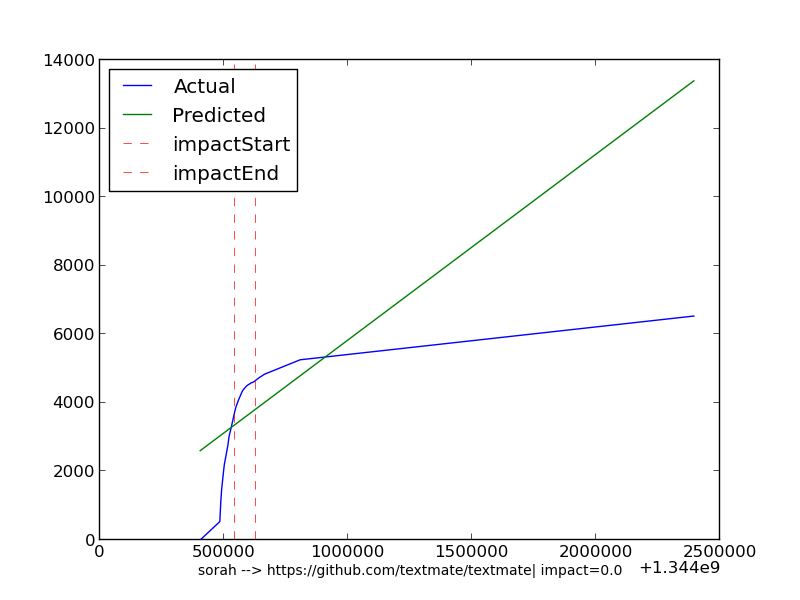
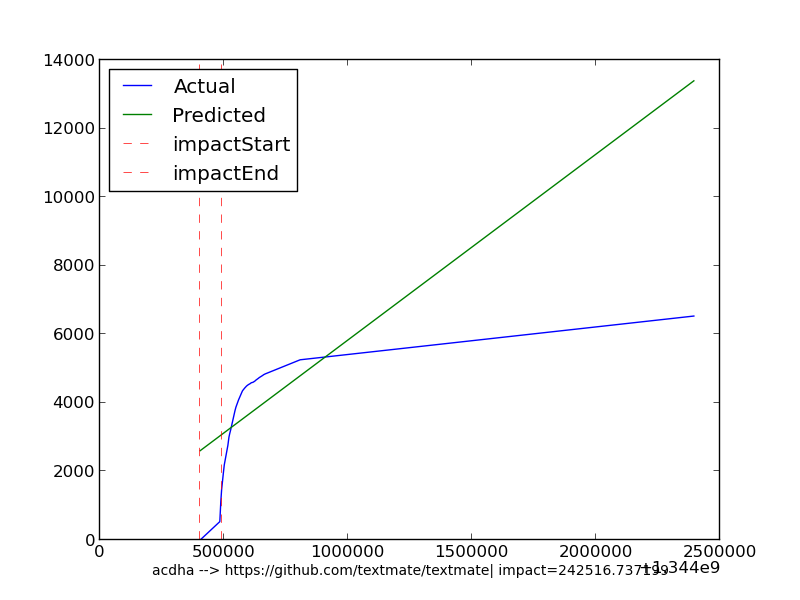
New files

Changed region(s): [[0.1875, 0.93, 0.8438, 0.96]]

diff --git a/python/highProfileWatchEvents.py b/python/highProfileWatchEvents.py
@@ -122,9 +122,8 @@ def growthCurveByRepoURL(event):
 			a.Y = row[0]
 			a.X = getFloatTime(getParsedTime(row[1]))
 			allObjsList.append(a)
-		#Sort objects bu timestamp	
-
-
+		
+		#Sort objects by timestamp	
 		allObjsList.sort(key = lambda a: a.X)	
 		i=0
 		firstCount = 0
@@ -159,9 +158,16 @@ def growthCurveByRepoURL(event):
 			a.Y = innerY
 			return a
 		except Exception, e:
+			#class Object(object):
+			#	pass
+			#a = Object()
+			#a.X = innerX
+			#a.Y = innerY
 			print e
 			print sys.exc_traceback.tb_lineno 	
-			pass
+			#return a
+			#print 'Predicted curve creation failed'
+			
 		finally:
 			pass
 	except Exception as e:
@@ -179,18 +185,24 @@ def growthCurveByRepoURL(event):
 #Calculates the delta between the predicted and actual number of watchers till 1 hour after a high profile user has started watching
 def getGrowthDelta(growthCurve,timeStamp):
 	actualY = growthCurve.Y
-	predictedY = growthCurve.AdjY
-	actualX = growthCurve.X
 	effect = 0;
+	actualX = growthCurve.X
+	#if growthCurve.AdjY is not None:
+	predictedY = growthCurve.AdjY
 	i=0
 	for x, y ,z in zip(actualY, predictedY,actualX):
 		if z > timeStamp and z < timeStamp + 3600:
 			if i == 0:
 				growthCurve.startTime = z	
 				i = i+1	
-			#print "adding "+str(x-y)
-			effect += x - y;
-		
+			effect += x - y
+	#else:
+	#	i=0
+	#	for x, z in zip(actualY, actualX):
+	#		if z > timeStamp and z < timeStamp + 3600:
+	#			if i == 0:
+	#				growthCurve.startTime = z	
+	#				i = i+1	
 	return effect
 
 #In Progress
@@ -251,6 +263,7 @@ try:
 					#TODO Decide on the value in the if condition
 					#if getImpactValueOfUser(actor) < 10:  
 					plt.plot(growthCurve.X,growthCurve.Y)
+					#if growthCurve.AdjY is not None :
 					plt.plot(growthCurve.X,growthCurve.AdjY)
 					plt.xlabel(a.actor+' --> '+a.repo_url+'| impact='+str(getImpactValueOfUser(actor)), fontsize=10)
 					plt.axvline(growthCurve.startTime, color='r', linestyle='dashed', linewidth=0.5)
